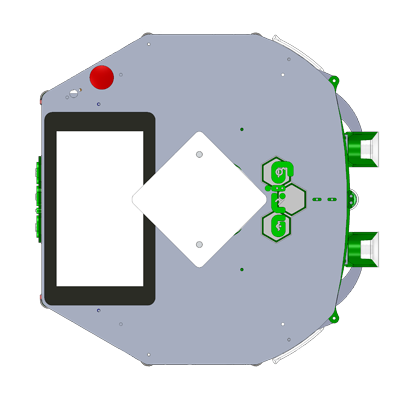
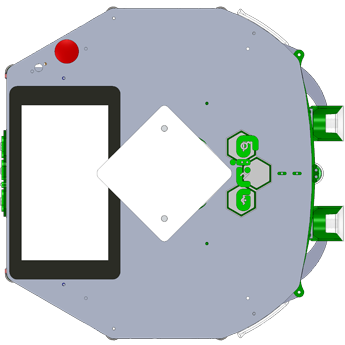
Mise à jour de la map

diff --git a/src/app/components/map-input/map-input.component.ts b/src/app/components/map-input/map-input.component.ts
@@ -148,8 +148,12 @@ export class MapInputComponent implements OnChanges, AfterViewInit {
             image  : maskLoader,
             width  : table.width * table.imageRatio,
             height : table.height * table.imageRatio,
-            opacity: 0.05
+            opacity: 0.15
           });
+
+          image.cache();
+          image.filters([Konva.Filters.Pixelate]);
+          image.pixelSize(table.width * table.imageRatio / maskLoader.width);
 
           this.background.add(image);
           image.moveToTop();
@@ -387,7 +391,8 @@ export class MapInputComponent implements OnChanges, AfterViewInit {
 
     imageLoader.onload = function () {
       robot.add(new Konva.Image({
-        x            : -65, y: -65,
+        x            : -Constants.robot.size.width / 2,
+        y            : -Constants.robot.size.height / 2,
         image        : imageLoader,
         width        : Constants.robot.size.width,
         height       : Constants.robot.size.height,

diff --git a/src/app/constants/tables.constants.ts b/src/app/constants/tables.constants.ts
@@ -2,7 +2,7 @@ import {Table} from '../models/Table';
 
 export const Tables: Table[] = [
   {
-    name: 'atom_factory',
+    name: 'sail_the_world',
     width: 3000,
     height: 2000,
     imageRatio: 1500 / 3000

diff --git a/src/app/constants/constants.ts b/src/app/constants/constants.ts
@@ -1,8 +1,8 @@
 export const Constants = {
   robot: {
     size: {
-      width: 143,
-      height: 143
+      width: 147,
+      height: 147
     }
   }
 };
